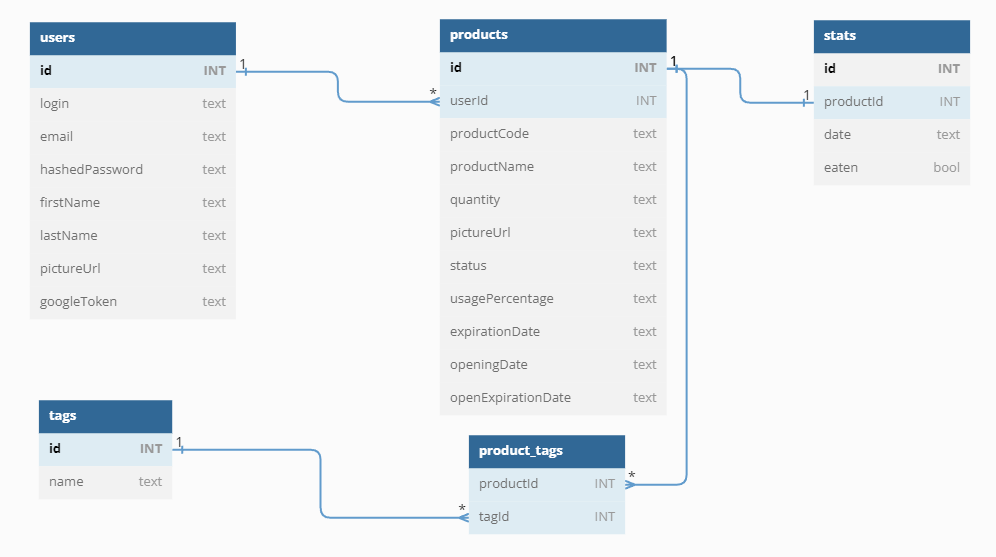
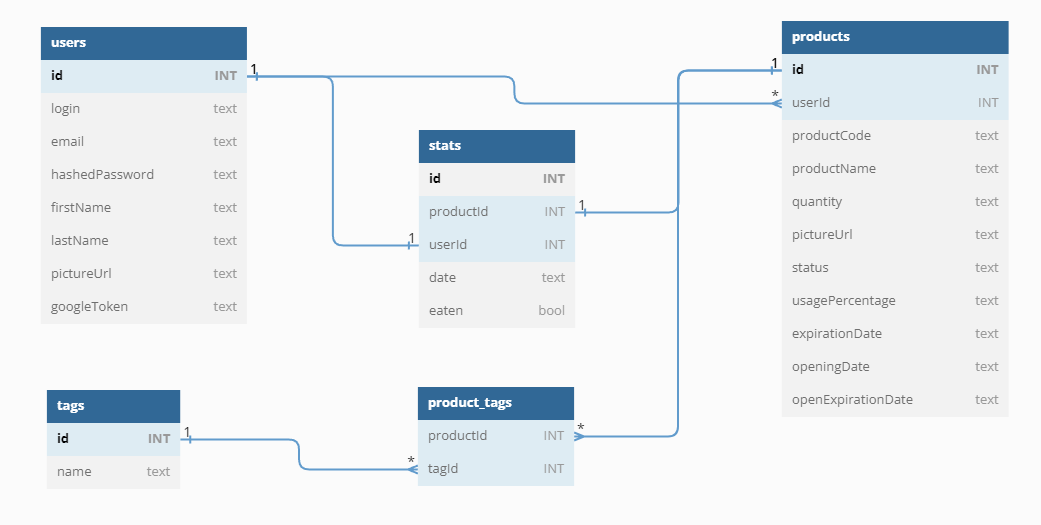
stats

diff --git a/backend/dist/user/user.service.js b/backend/dist/user/user.service.js
@@ -10,7 +10,23 @@ const getUser = async (userId) => {
     }
     return [false, null];
 };
-const getUserStats = async (userId) => { };
+const getUserStats = async (userId, numberOfDays) => {
+    const eatenCountQuery = (0, knex_config_1.knex)("stats")
+        .where({ userId, eaten: true })
+        .andWhere(knex_config_1.knex.raw(`to_date(date, 'YYYY-MM-DD') > current_date - interval '${numberOfDays}' day`))
+        .count()
+        .as("eatenCount");
+    const disposedCountQuery = (0, knex_config_1.knex)("stats")
+        .where({ userId, eaten: false })
+        .andWhere(knex_config_1.knex.raw(`to_date(date, 'YYYY-MM-DD') > current_date - interval '${numberOfDays}' day`))
+        .count()
+        .as("disposedCount");
+    const result = await (0, knex_config_1.knex)().select(eatenCountQuery, disposedCountQuery);
+    if (result.length > 0) {
+        return [true, result[0]];
+    }
+    return [false, null];
+};
 const getTags = async () => {
     const result = await (0, knex_config_1.knex)("tags").select("id", "name");
     if (result.length > 0) {

diff --git a/backend/dist/user/user.controller.js b/backend/dist/user/user.controller.js
@@ -30,7 +30,32 @@ const me = async (request, response) => {
     });
 };
 // TODO
-const stats = async (request, response) => { };
+const stats = async (request, response) => {
+    const userId = request.session.userId;
+    const numberOfDays = parseInt(request.params.numberOfDays ?? 30);
+    if (!userId) {
+        response.status(401).json({
+            status: "FAIL",
+            message: "Log in to continue."
+        });
+        return;
+    }
+    await user_service_1.default.getUserStats(userId, numberOfDays).then((result) => {
+        const [success, statsData] = result;
+        if (success) {
+            response.status(200).json({
+                status: "SUCCESS",
+                data: statsData
+            });
+        }
+        else {
+            response.status(500).json({
+                status: "FAIL",
+                message: "Error while getting stats. Try again."
+            });
+        }
+    });
+};
 const tags = async (request, response) => {
     const userId = request.session.userId;
     if (!userId) {

diff --git a/backend/src/user/user.service.ts b/backend/src/user/user.service.ts
@@ -11,7 +11,33 @@ const getUser = async (userId: any) => {
   return [false, null];
 };
 
-const getUserStats = async (userId: any) => {};
+const getUserStats = async (userId: any, numberOfDays: number) => {
+  const eatenCountQuery = knex("stats")
+    .where({ userId, eaten: true })
+    .andWhere(
+      knex.raw(
+        `to_date(date, 'YYYY-MM-DD') > current_date - interval '${numberOfDays}' day`
+      )
+    )
+    .count()
+    .as("eatenCount");
+  const disposedCountQuery = knex("stats")
+    .where({ userId, eaten: false })
+    .andWhere(
+      knex.raw(
+        `to_date(date, 'YYYY-MM-DD') > current_date - interval '${numberOfDays}' day`
+      )
+    )
+    .count()
+    .as("disposedCount");
+
+  const result = await knex().select(eatenCountQuery, disposedCountQuery);
+
+  if (result.length > 0) {
+    return [true, result[0]];
+  }
+  return [false, null];
+};
 
 const getTags = async () => {
   const result = await knex("tags").select("id", "name");

diff --git a/backend/src/user/user.controller.ts b/backend/src/user/user.controller.ts
@@ -28,7 +28,32 @@ const me = async (request: Request, response: Response) => {
 };
 
 // TODO
-const stats = async (request: Request, response: Response) => {};
+const stats = async (request: Request, response: Response) => {
+  const userId = request.session.userId;
+  const numberOfDays = parseInt(request.params.numberOfDays ?? 30);
+  if (!userId) {
+    response.status(401).json({
+      status: "FAIL",
+      message: "Log in to continue."
+    });
+    return;
+  }
+
+  await userService.getUserStats(userId, numberOfDays).then((result) => {
+    const [success, statsData] = result;
+    if (success) {
+      response.status(200).json({
+        status: "SUCCESS",
+        data: statsData
+      });
+    } else {
+      response.status(500).json({
+        status: "FAIL",
+        message: "Error while getting stats. Try again."
+      });
+    }
+  });
+};
 
 const tags = async (request: Request, response: Response) => {
   const userId = request.session.userId;

diff --git a/backend/dist/product/product.service.js b/backend/dist/product/product.service.js
@@ -72,9 +72,19 @@ const addProduct = async (product, tags) => {
 };
 const updateProduct = async (product) => {
     const { id, userId, ...rest } = product;
+    const newStatus = rest.status;
     const result = await (0, knex_config_1.knex)("products").where({ id, userId }).update(rest);
     if (result > 0) {
-        return [true, result];
+        const resultStats = await (0, knex_config_1.knex)("stats").insert({
+            productId: id,
+            userId: userId,
+            eaten: newStatus === "eaten",
+            date: new Date().toISOString().slice(0, 10)
+        }, ["id"]);
+        if (resultStats.length > 0) {
+            return [true, result];
+        }
+        return [false, null];
     }
     return [false, null];
 };

diff --git a/backend/src/product/product.service.ts b/backend/src/product/product.service.ts
@@ -85,9 +85,22 @@ const addProduct = async (
 
 const updateProduct = async (product: Product) => {
   const { id, userId, ...rest } = product;
+  const newStatus = rest.status;
   const result = await knex("products").where({ id, userId }).update(rest);
   if (result > 0) {
-    return [true, result];
+    const resultStats = await knex("stats").insert(
+      {
+        productId: id,
+        userId: userId,
+        eaten: newStatus === "eaten",
+        date: new Date().toISOString().slice(0, 10)
+      },
+      ["id"]
+    );
+    if (resultStats.length > 0) {
+      return [true, result];
+    }
+    return [false, null];
   }
   return [false, null];
 };
